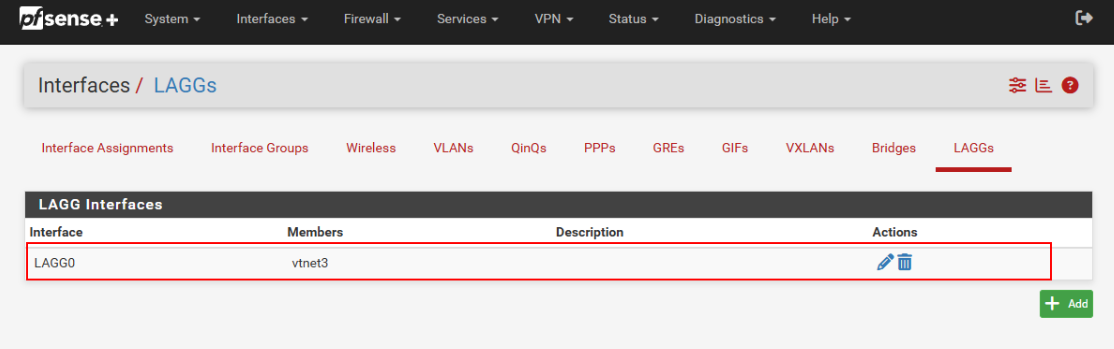
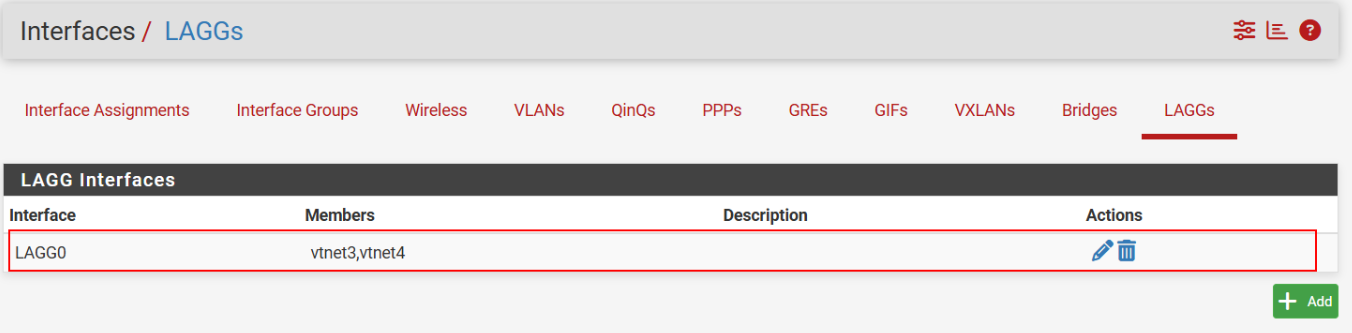
update

diff --git a/LACP_Pfsense/config.md b/LACP_Pfsense/config.md
@@ -18,29 +18,30 @@
 
 ## Nối thêm dây giữa CoreSw và pfSense để cấu hình LACP
 
-<img src="images/image-1.png" width="500">
+<img src="images/15.png" width="500">  
 
-### Trên G0/3 mới của CoreSw
+
+### Trên 2 dây mới G0/3 và G1/0 của CoreSw
 
 - Cấu hình trunk 
 
 ```
-Coresw(config-vlan)#int g0/3
-Coresw(config-if)#sw trunk encapsulation dot1q
-Coresw(config-if)#sw mode trunk
-Coresw(config-if)#sw trunk all vlan 10,20
+Coresw(config-vlan)#int range g0/3,g1/0
+Coresw(config-if-range)#sw trunk encapsulation dot1q
+Coresw(config-if-range)#sw mode trunk
+Coresw(config-if-range)#sw trunk all vlan 10,20
 ```
 
-- Cấu hình LACP duy nhất trên G0/3 trước
+- Cấu hình LACP trên 2 cổng mới của CoreSw
 
 ```
-Coresw(config)#int g0/3
-Coresw(config-if)#sw trunk encap dot1q
-Coresw(config-if)#sw mode trunk
-Coresw(config-if)#sw trunk all vlan 10,20
-Coresw(config-if)#exit
-Coresw(config)#int g0/3
-Coresw(config-if)#channel-gr 1 mode active
+Coresw(config)#int range g0/3,g1/0
+Coresw(config-if-range)#sw trunk encapsulation dot1q
+Coresw(config-if-range)#sw mode trunk
+Coresw(config-if-range)#sw trunk all vlan 10,20
+Coresw(config-if-range)#exit
+Coresw(config)#int range g0/3,g1/0
+Coresw(config-if-range)#channel-group 1 mode active
 Creating a port-channel interface Port-channel 1
 
 
@@ -53,7 +54,9 @@ Coresw(config-if)#sw trunk all vlan 10,20
 ### Trên pfSense 
 - Vào Interfaces -> LAGGs, bấm Add -> thêm e3 (e3 là cổng mới thêm vào trên pfsense và lấy riêng cổng mới đó cấu hình lagg)
 
-<img src="images/3.png" width="500">   
+<img src="images/3.png" width="500">    
+
+
 
 
 
